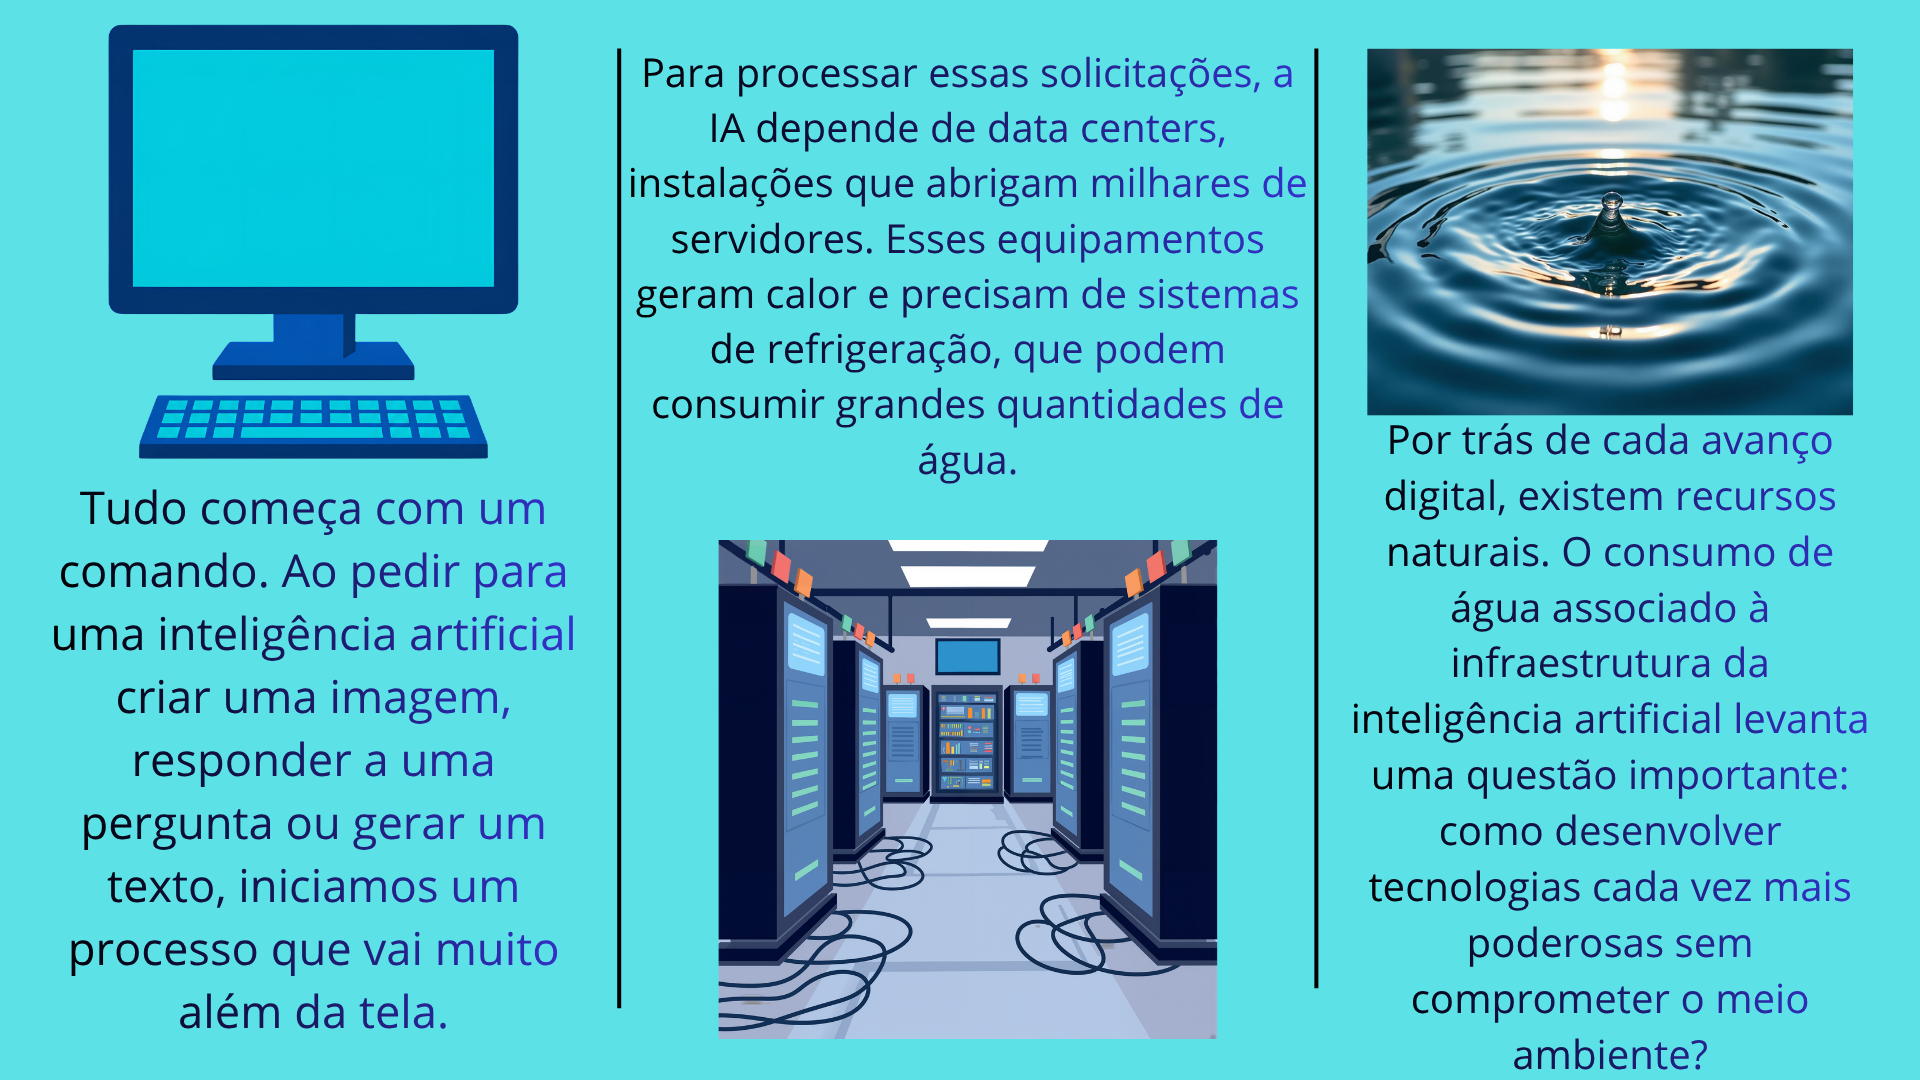
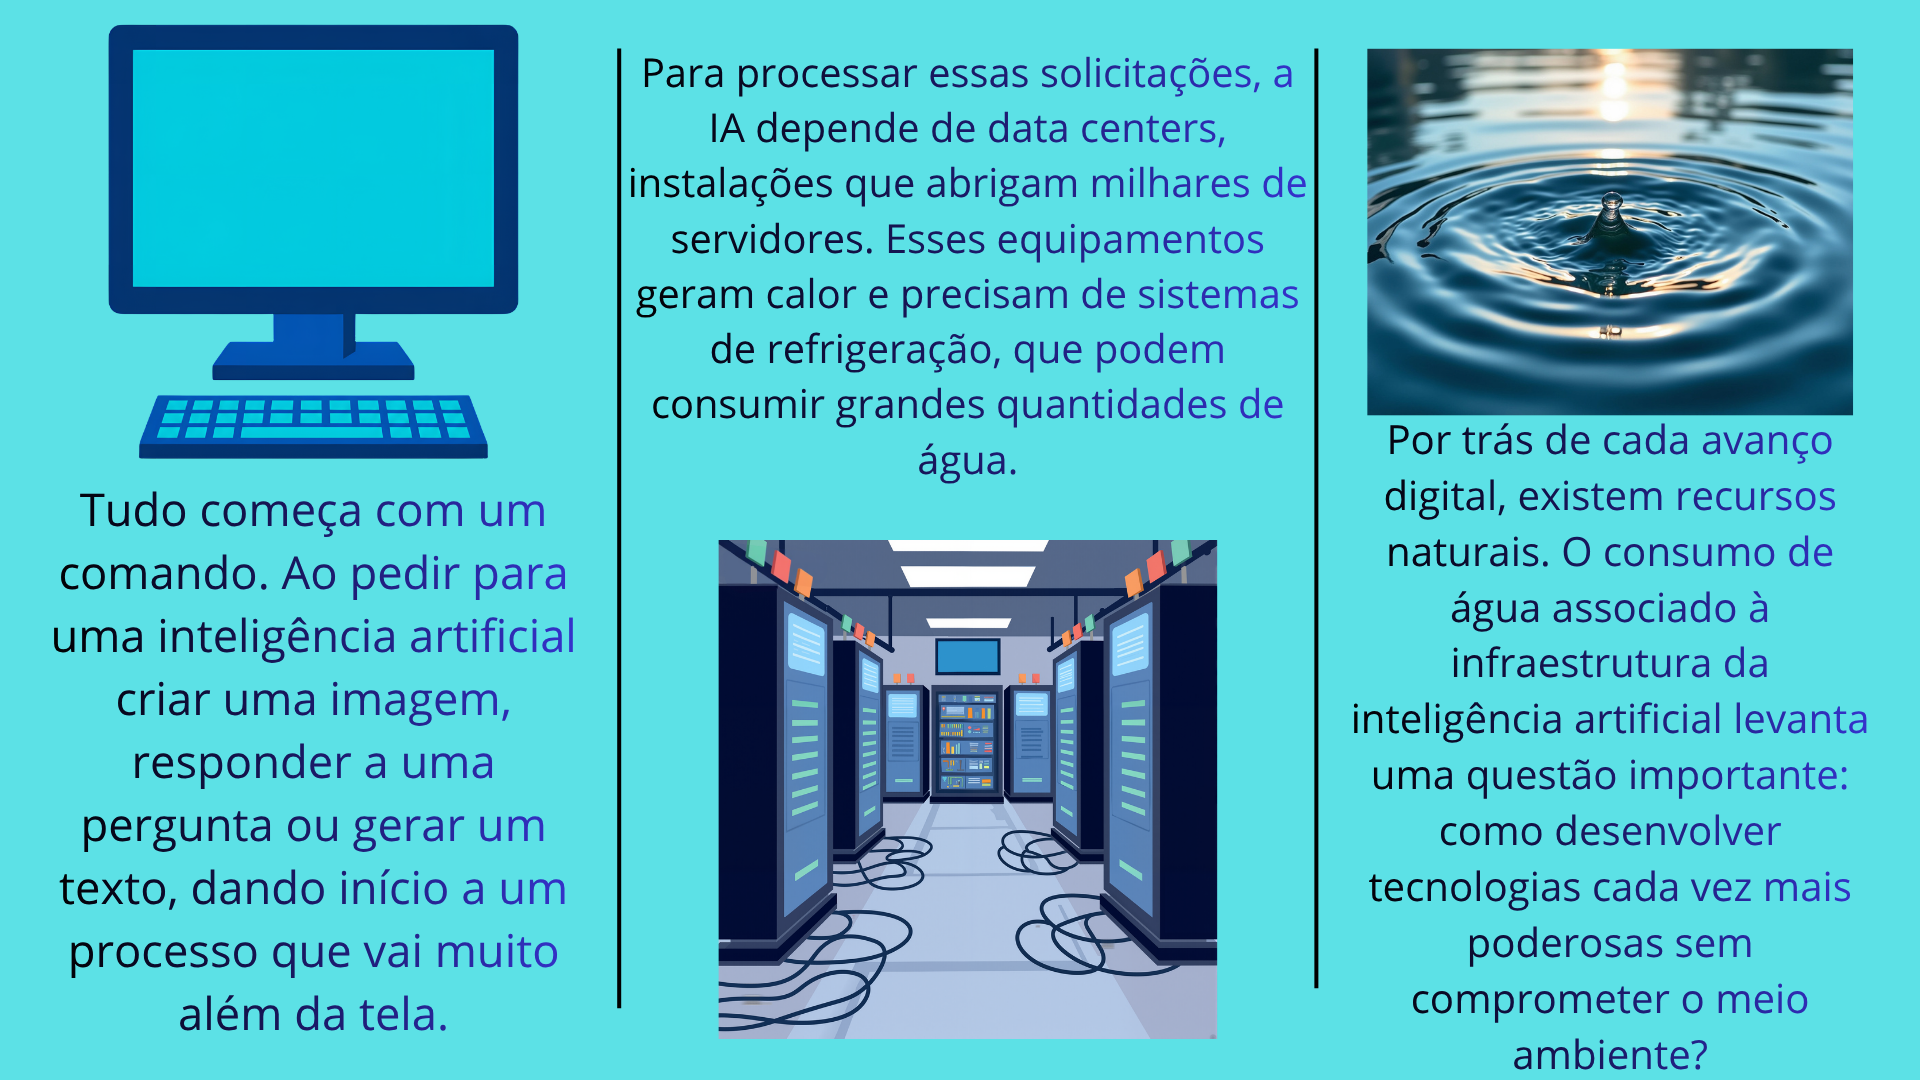
Atualização do CSS

diff --git a/extra.html b/extra.html
@@ -11,6 +11,8 @@
 <body>
     <header>
         <img src="logo-site.png" alt="Logotipo d" width="10%"><h1> O consumo de água da inteligência artificial </h1> 
+        <br/>
+        <br/>
     <nav aria-label="Menu principal">
         <a href="index.html">Início</a>
         <a href="sobre.html">Sobre</a>
@@ -25,10 +27,7 @@
 <section class="fontes">
 
 <h2>Outros sites para se aprofundar no tema</h2>
-
-
-   <hr/>
-       <p>Consulte as pesquisas utilizadas neste trabalho.</p>
+<br/>
 
    <div class="links">
    <a href="https://revistapesquisa.fapesp.br/as-estrategias-para-tornar-os-data-centers-mais-sustentaveis/"
@@ -85,64 +84,57 @@
             <thead>
                 <tr>
                     <th>Período</th>
-                    <th>Marco ou dado</th>
+                    <th>Marco</th>
                     <th>Informação</th>
                 </tr>
             </thead>
 
             <tbody>
                 <tr>
-                    <td>1945</td>
-                    <td>ENIAC</td>
+                    <td>Os Primeiros Passos </td>
+                    <td>Data centers físicos</td>
                     <td>
-                        O computador eletrônico pesava cerca de
-                        27 toneladas e ocupava aproximadamente
-                        27 m².
+                      Grandes instalações com servidores, cabos e sistemas de resfriamento.  
+                    </td>
+                </tr>
+
+                <tr>
+                    <td>Transição tecnológica</td>
+                    <td>Virtualização</td>
+                    <td>
+                 Permitiu executar vários sistemas em um único servidor físico.      
+                    </td>
+                </tr>
+
+                <tr>
+                    <td>Expansão da nuvem</td>
+                    <td>Data centers em nuvem</td>
+                    <td>
+                        Trouxeram mais flexibilidade e facilidade para ampliar a infraestrutura.
                     </td>
                 </tr>
 
                 <tr>
                     <td>Atualidade</td>
-                    <td>Data centers do Google</td>
+                    <td>Eficiência operacional</td>
                     <td>
-                        O texto de referência indica instalações
-                        com cerca de 100 mil m².
+                        A automação permite melhorar o gerenciamento e o monitoramento dos equipamentos.
                     </td>
                 </tr>
 
                 <tr>
-                    <td>2021</td>
-                    <td>Google</td>
+                    <td>Futuro</td>
+                    <td>Inteligência artificial e IoT</td>
                     <td>
-                        Consumo informado de 12,7 bilhões
-                        de litros de água doce nos EUA.
+                Essas tecnologias aumentam a demanda por processamento e armazenamento de dados.        
                     </td>
                 </tr>
 
                 <tr>
-                    <td>2022</td>
-                    <td>Microsoft</td>
+                    <td>Futuro</td>
+                    <td>Sustentabilidade</td>
                     <td>
-                        O relatório citado indica aumento de
-                        34% no consumo de água em relação a 2021.
-                    </td>
-                </tr>
-
-                <tr>
-                    <td>2023</td>
-                    <td>Treinamento do GPT-3</td>
-                    <td>
-                        Estimativa de aproximadamente 700 mil
-                        litros de água potável no treinamento.
-                    </td>
-                </tr>
-
-                <tr>
-                    <td>Estimativa de pesquisa</td>
-                    <td>Interações com IA</td>
-                    <td>
-                        Entre 20 e 50 perguntas podem corresponder
-                        a cerca de 500 ml de água, segundo o estudo citado.
+                       Novas formas de resfriamento e energias renováveis ajudam a melhorar a eficiência dos data centers. 
                     </td>
                 </tr>
             </tbody>
@@ -150,8 +142,8 @@
     </div>
 
     <p class="nota-tabela">
-       FONTE:<a href="https://www.ufsm.br/2025/09/04/como-o-uso-de-inteligencias-artificiais-consome-agua"
-   target="_blank" rel="noopener noreferrer">UFSM </a>
+       FONTE:<a href="https://nuvemdatacom.com.br/evolucao-data-centers/"
+   target="_blank" rel="noopener noreferrer"> Nuvem Datacom — A Evolução dos Data Centers (2024). </a>
     </p>
 </section>
 

diff --git a/index.html b/index.html
@@ -29,7 +29,7 @@
 </header>
     <main>
          <section class="hero">
-    <h1>O consumo de água na inteligência artificial</h1>
+    <h1>O consumo de água da inteligência artificial</h1>
     
     <a href="tema.html" class="botao-saiba">
         Saiba Mais
@@ -38,19 +38,19 @@
     <div class="apresentacao">
 
         <div class="textohome">
-    <h1>Como o uso de inteligências artificiais consome água?</h1>
-        <p>A inteligência artificial (IA) está cada vez mais presente em nosso cotidiano, facilitando tarefas,
+    <h1>inteligências artificiais</h1>
+            <p>A inteligência artificial (IA) está cada vez mais presente em nosso cotidiano, facilitando tarefas,
              criando imagens e transformando a maneira como acessamos informações. Porém, por trás desses avanços tecnológicos,
               existe um impacto ambiental que nem sempre percebemos. O funcionamento dessas ferramentas exige grandes quantidades de 
               energia elétrica e água, principalmente nos centros de dados, responsáveis pelo processamento das informações e pelo
              resfriamento dos equipamentos.</p>
              <p>
-             Embora o consumo de água de uma única interação possa parecer pequeno, o uso frequente dessas tecnologias por
+               Embora o consumo de água de uma única interação possa parecer pequeno, o uso frequente dessas tecnologias por
               milhões de pessoas pode aumentar significativamente a demanda por recursos naturais. Além disso, a geração de 
               energia necessária para manter esses sistemas funcionando também pode contribuir para a emissão de gases de efeito estufa.
             Diante desse cenário, é fundamental refletir sobre os impactos ambientais da inteligência artificial e buscar formas
              de tornar seu desenvolvimento mais sustentável.</p>
-             <p> Explore nosso site para entender melhor essa relação entre 
+              <p> Explore nosso site para entender melhor essa relação entre 
              tecnologia e meio ambiente, descobrir dados importantes e conhecer alternativas que podem contribuir para um futuro
               digital mais consciente e responsável!</p>
               </div>
@@ -147,6 +147,11 @@
 <div class="rodape-final">
     <p>Os dados apresentados na página de contato são fictícios.</p>
      <p>© 2026 — Projeto acadêmico</p>
+      <p>
+        Fonte de pesquisa:
+        <a href="https://periodicos.ifsc.edu.br/index.php/snctifsc/article/view/4434/5319"
+           target="_blank"> O custo invisível da inteligência artificial generativa </a>
+    </p>
      </div>
    </footer>
 

diff --git a/style.css b/style.css
@@ -49,6 +49,17 @@ nav a:hover {
     padding-bottom: 25px;
 }
 
+.rodape-final a {
+    color: #DFF3E1;
+    text-decoration: underline;
+    transition: color 0.3s ease;
+}
+
+.rodape-final a:hover {
+    color: #1E6FB8;
+}
+
+
 /* NOME DO PROJETO */
 .rodape-projeto {
     max-width: 350px;
@@ -215,7 +226,7 @@ h1 {
 
 .imagem-home figure {
     width: 100%;
-    max-width: 1100px;
+    max-width: 950px;
     margin: 0;
     padding: 15px;
     background: #20323F;
@@ -366,6 +377,7 @@ h3{
     color: #0F6B4F;
     text-align: center;
 }
+
 /*sobre==========================================================================================================*/
 
 /* NOSSA MISSÃO */
@@ -485,24 +497,6 @@ h3{
 }
 
 
-.imagem-texto {
-    width: 100%;
-    max-width: 650px;
-    margin: 30px auto;
-    text-align: center;
-}
-
-.imagem-texto img {
-    display: block;
-    width: 100%;
-    max-width: 900px;
-    height: auto;
-    margin: 0 auto;
-    border-radius: 12px;
-    border: 2px solid #0F6B4F;
-}
-
-
 .imagem-sobre {
     width: 100%;
     padding: 40px 20px;
@@ -550,6 +544,61 @@ h3{
     .imagem-sobre figcaption {
         font-size: 14px;
     }
+}
+
+
+/* CRIADORAS DO PROJETO */
+
+.criadoras {
+    padding: 55px 20px;
+    text-align: center;
+    background-color: #DFF3E1;
+}
+
+.criadoras h2 {
+    color: #0F6B4F;
+    font-size: 28px;
+    margin-bottom: 12px;
+}
+
+.criadoras > p {
+    color: #20323F;
+    font-size: 16px;
+    margin-bottom: 35px;
+}
+
+.criadoras-container {
+    display: flex;
+    justify-content: center;
+    align-items: stretch;
+    flex-wrap: wrap;
+    gap: 25px;
+}
+
+.criadora {
+    background-color: #FFFFFF;
+    border: 2px solid #1E6FB8;
+    border-radius: 16px;
+    padding: 30px 20px;
+    width: 250px;
+    transition: transform 0.3s ease, box-shadow 0.3s ease;
+}
+
+.criadora:hover {
+    transform: translateY(-7px);
+    box-shadow: 0 8px 18px rgba(32, 50, 63, 0.15);
+}
+
+.criadora h3 {
+    color: #0F6B4F;
+    font-size: 20px;
+    margin-bottom: 12px;
+}
+
+.criadora p {
+    color: #20323F;
+    font-size: 14px;
+    line-height: 1.5;
 }
 
 

diff --git a/sobre.html b/sobre.html
@@ -10,6 +10,8 @@
 <body>
     <header>
         <img src="logo-site.png" alt="Logotipo do site" width="10%"> <h1>O consumo de água da inteligência artificial</h1> 
+        <br/>
+        <br/>
     <nav aria-label="Menu principal">
         <a href="index.html">Início</a>
         <a href="sobre.html">Sobre</a>
@@ -63,10 +65,10 @@
 
 
 <div class="dados-cabecalho">
-    <span class="dados-etiqueta">INTELIGÊNCIA ARTIFICIAL E RECURSOS HÍDRICOS</span>
-
+    <span class="dados-etiqueta"></span>
+  
     <h2> Por que falar sobre esse assunto é tão importante?</h2>
-
+<br/>
     <p>
         A inteligência artificial está cada vez mais presente em nossas vidas, facilitando tarefas,
          auxiliando nos estudos e transformando a tecnologia. Porém, por trás de toda
@@ -81,8 +83,9 @@
 
 <section class="dados-agua" id="dados-agua">
     <div class="dados-cabecalho">
-        <span class="dados-etiqueta">ATENÇÃO</span>
+        <span class="dados-etiqueta"></span>
         <h2>Por que ninguém se preocupa tanto com isso?</h2>
+        <br/>
         <p>
             O consumo de água pela inteligência artificial ainda recebe menos atenção do que outros impactos ambientais.
              Isso pode acontecer porque a tecnologia parece existir apenas nas telas dos celulares e computadores,
@@ -106,10 +109,6 @@
     </div>
 
 
-<div class="imagem-texto">
-    <img src="foto-texto_agua.png" alt="Imagem com texto sobre o consumo de água pela inteligência artificial">
-</div>
-
  <div class="imagem-sobre">
     <figure>
         
@@ -120,6 +119,27 @@
     </figcaption>
 </figure>
     </div>
+
+    <section class="criadoras">
+    <h2>Quem está por trás do projeto?</h2>
+    <p>Este projeto foi desenvolvido por:</p>
+
+    <div class="criadoras-container">
+
+        <div class="criadora">
+            <h3>Geovanna Vital</h3>
+        </div>
+
+        <div class="criadora">
+            <h3>Marina Matos</h3>
+        </div>
+
+        <div class="criadora">
+            <h3>Maria Eduarda Lira</h3>
+        </div>
+
+    </div>
+</section>
 
     </main>
 
